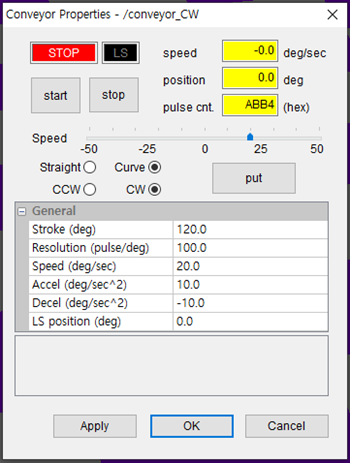
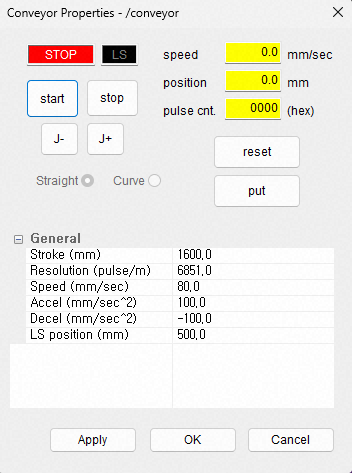
# 2.6. Conveyor Sync 개정

Changed region(s): [[0.0, 0.0, 1.0, 1.0], [0.8857, 0.3024, 0.9429, 0.3326], [0.5714, 0.3024, 0.6, 0.3326]]

diff --git a/2-ext-model/6-conveyor-sync.md b/2-ext-model/6-conveyor-sync.md
@@ -1,40 +1,146 @@
 # 2.6. Conveyor Sync
 
-- Please familiarize yourself with the use of the "Sensor Sync" feature first.
+- Please read the `Sensor Sync` manual first. 
   * Hi5a Controller Function Manual - Sensor Sync
   * [Hi6 Controller Function Manual - Sensor Sync (Conveyor, Press)](https://hrbook-hrc.web.app/#/view/doc-sensor-sync/en/README?cont_model=Hi6)
   * [Hi7 Controller Function Manual - Sensor Sync (Conveyor, Press)](https://hrbook-hrc.web.app/#/view/doc-sensor-sync/en/README?cont_model=Hi7)
 
-The Conveyor Sync extension model helps simulate conveyor synchronization by generating the Pulse and Limit Switch values of the conveyor in HRSpace and transmitting those values to the VRC or Ethernet simulator.
+{% hint style="info" %}
+The Hi6/Hi7 conveyor synchronization feature is supported starting from HRSpace v4.10.0.
+{% endhint %}
 
-Load `Conveyor (Linear)` or `conveyor_CCW (Counterclockwise Circular)` or `conveyor_CW (Clockwise Circular)` from the external equipment in the library using the model loading feature.
+
+The conveyor sync extension model is an extension model in HRSpace that generates the Pulse Count and Limit Switch output of a conveyor and transmits them to the VRC, enabling conveyor synchronization simulation.
+
+Import `conveyor`, `conveyor_CCW (Counterclockwise Curve)`, or `conveyor_CW (Clockwise Curve)` from the external equipment library using `Load Model`.
 
 ![](../_assets/load-model.png)
 ![](../_assets/conv-sync/load-conveyor.png)
 
-Specify the TPath of the designated MXConveyor extension model in the Pulse Counter section of `Robot Properties - Sync`.
 
-![](../_assets/conv-sync/robot-prop-sync.png)
+## 2.6.1. Extension Properties Dialog
 
-For the created model (FloorPlan) in the tree view, select the extension properties from the popup menu to open the conveyor properties dialog. (You can also click the ![](../_assets/bt-prop.png) button in the model properties dialog.)
+Open the Conveyor Properties dialog by selecting `Extension Properties...` from the pop-up menu for the created model (conveyor) in the tree window. (You can also click the ![](../_assets/bt-prop.png) button in the `Model Properties` dialog.) 
 
 ![](../_assets/conv-sync/popup-menu-ext-prop.png)
 ![](../_assets/conv-sync/bt-prop-in-prop.png)
 ![](../_assets/conv-sync/conveyor-prop.png)
 
-Click `START` in the properties dialog to start the conveyor operation.  
-Click the `put` button to begin the Target's operation.
 
-## 2.6.1. Operation of the Conveyor
+The roles of each button are as follows:
 
-![](../_assets/conv-sync/concept.png)
+| Button Name | Role |
+|-----------|----------------------------------------------------------|
+| `start` | Starts the conveyor. `pulse cnt.` starts to increase. |
+| `stop` | Decelerates and stops the conveyor. |
+| `reset` | Resets the pulse count and workpiece position to 0, bringing it to a stopped state. It also outputs the `SyncReset` signal as a 500ms single pulse. |
+| `put` | Starts moving the workpiece on the conveyor. |
+| `J+`/`J-` | Jog buttons that move the conveyor forward or backward when stopped. |
+| `CCW`/`CW` | Displayed only for Curve-type conveyors. Selects Counterclockwise (CCW) / Clockwise (CW). |
 
-## 2.6.2. Data Transmission to Hi5a Controller
+- By default, the workpiece is a rectangular box shape named `target`. If necessary, adjust the `Model Properties` to set the desired size, height, basic shape, or shape files such as STL. However, the name must remain `target`.
 
-The `PulseCount` characteristic value and `LimitSwitch` I/O value are transmitted to the virtual controller or the Ethernet-connected controller according to the settings in the robot properties for controller connection.
 
-![](../_assets/conv-sync/sel-vrc.png)
+You can configure the properties below in the table at the bottom. Settings are applied only after clicking the `Apply` button, and they can also be configured during operation.
 
-The transmitted values can be monitored on the sensor sync screen. (Please refer to the "Sensor Sync" user guide for the Hi5a controller.)
+| Property Name |            Description                               |
+|-----------|----------------------------------------------------------|
+| `Stroke` | Workpiece outfeed position. Re-initialized to position 0 when `target` reaches this point. |
+| `Resolution` | Encoder resolution. Set this to the same value calculated and configured automatically in VRC in the procedure below |
+| `Speed` | Target speed of the conveyor. |
+| `Accel` | Acceleration of the conveyor. |
+| `Decel` | Deceleration of the conveyor. |
+| `LS position` | Limit switch position. When `target` reaches this point in the forward direction, the `LimitSwitch` signal and `LS` lamp turn on for 300ms.|
+
+
+## 2.6.2. Conveyor Settings 
+
+Referring to [Sensor Sync Parameter Settings](https://hrbook-hrc.web.app/#/view/doc-sensor-sync/en/3-user-interface/3-3-sensor-sync-parameter?cont_model=Hi7), first set the sync state on the `Sensor Sync Parameter` screen of VTP to `Conveyor`, and set the conveyor type to `Linear` or `Circular`.
+
+
+### Controller Input Connection
+
+The robot controller performs operations in exact synchronization with the position of the workpiece on the conveyor. To achieve this, the robot controller receives the following 3 pieces of information as inputs from the conveyor to estimate the position of the workpiece. (Since the robot controller has 2 input channels, it can connect with up to 2 conveyors.)
+
+- `SyncReset`: Considers the current conveyor pulse input value as workpiece position 0. (1bit)
+- `LimitSwitch`: Reference position information of the workpiece (1bit) that turns ON when a workpiece moving along the conveyor activates a limit switch, such as an optical sensor.
+- `PulseCount`: Pulse information used to calculate the real-time speed of the conveyor (16bit).
+
+
+The method of receiving these 3 pieces of information varies depending on the controller model.
+
+- Hi5a Controller
+  * Dedicated Conveyor I/F Board (BD585)
+- Hi6/Hi7 Controller (Supports 2 methods)
+  * Dedicated Conveyor I/F Board
+  * Crevis FnIO Module M5112: Inputted as user input (di, diw).
+
+
+The conveyor model in the HRSpace virtual space must transmit the above 3 pieces of information to the Virtual Robot Controller (VRC) just like an actual conveyor. The connection method is as follows:
+
+
+- Dedicated Conveyor I/F Board
+
+  Assign the TPath of the conveyor model to the Pulse Counter item in `Robot Properties - Sync`. It is transferred internally without needing a virtual I/O connection.
+  
+  ![](../_assets/conv-sync/robot-prop-sync.png)
+ 
+
+- FnIO Module Method
+
+  Set the assigned signals for `Syncronization reset`, `Limit switch input`, and `Pulse counter input (16bit)` under `Input Signal Assign` group on the `Sensor sync parameter` screen of VTP.
+
+  After creating an `I/O Connection` object in the workspace, open its properties and configure it. Connect the 3 output values of the conveyor model (`SyncReset`, `LimitSwitch`, `PulseCount`) to the respective `di` areas configured in VTP.
+
+  * Important: Since these output values must be transmitted to the VRC at a fast cycle, be sure to check the `Realtime` checkbox.
+
+  ![](../_assets/conv-sync/ioconn.png)
+
+
+Open the `Sensor Sync` monitoring panel of VTP and verify if the pulse count and speed are displayed identically to those in the Extension Properties dialog. If confirmed, it is connected properly.
 
 ![](../_assets/conv-sync/monitor-pane.png)
+
+
+### Limit Switch and Outfeed Position
+
+- Check the appropriate workpiece outfeed position, then enter the position value into the `Stroke` property.
+- Check the appropriate position to place the limit switch, then enter the position value into the `LS position` property.
+  * When the workpiece passes the limit switch, check if `Limit Switch Input` in the `Sensor Sync` monitoring panel of VTP momentarily changes to 1 and whether `Entered Workpiece Count` increases.
+
+
+### Conveyor Angle
+
+Referring to the Sensor Sync manual, perform the automatic conveyor angle setting in the virtual space using VTP. (You can execute this while moving the workpiece using the `J+`, `J-`, or `start`, `stop` buttons in the Conveyor Properties dialog.)
+
+
+### Encoder Resolution
+
+Referring to the Sensor Sync manual, perform the automatic conveyor encoder resolution setting in the virtual space using VTP. Enter the same value as the configured encoder resolution in the `Resolution` field of the Extension Properties dialog, then click the `Apply` button to reflect it.
+
+
+### Saving
+
+Once each setting is completed, save the entire HRSpace project.
+
+
+## 2.6.3. Teaching
+
+Referring to the Sensor Sync manual, teach the conveyor sync operation.
+Position the workpiece at a suitable location using the `J+` and `J-` buttons, then perform teaching for the workpiece while the conveyor is stopped.
+
+![](../_assets/conv-sync/teach-3d.png)
+![](../_assets/conv-sync/teach-vtp.png)
+
+
+## 2.6.4. Conveyor Sync Simulation
+
+Initialize the conveyor and workpiece position using the `reset` button, start the conveyor using the `start` button, and dispatch the workpiece from the initial position using the `put` button.
+When the taught job is executed, the robot will wait at the `cv.wait` statement (for Hi6/Hi7). Once the workpiece reaches the limit switch position, the robot starts the conveyor sync operation.
+
+
+## 2.6.5. Ethernet Data Transmission to Actual Hi5a Controller
+
+If you set `Robot Properties - Controller connection` to `ENetHi5`, the `PulseCount` property value and `LimitSwitch` I/O values are also transmitted to the actual Hi5a controller via Ethernet. (Hi6/Hi7 are not supported.)
+
+![](../_assets/conv-sync/sel-vrc.png)
